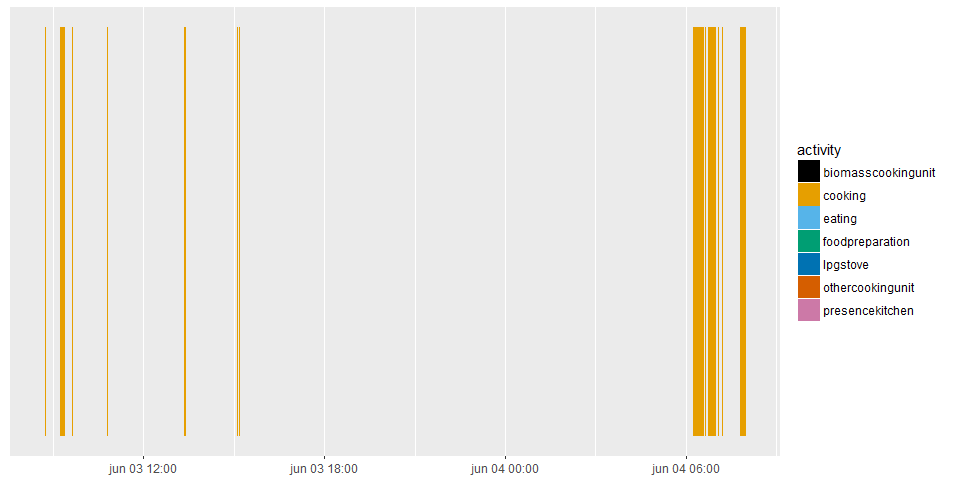
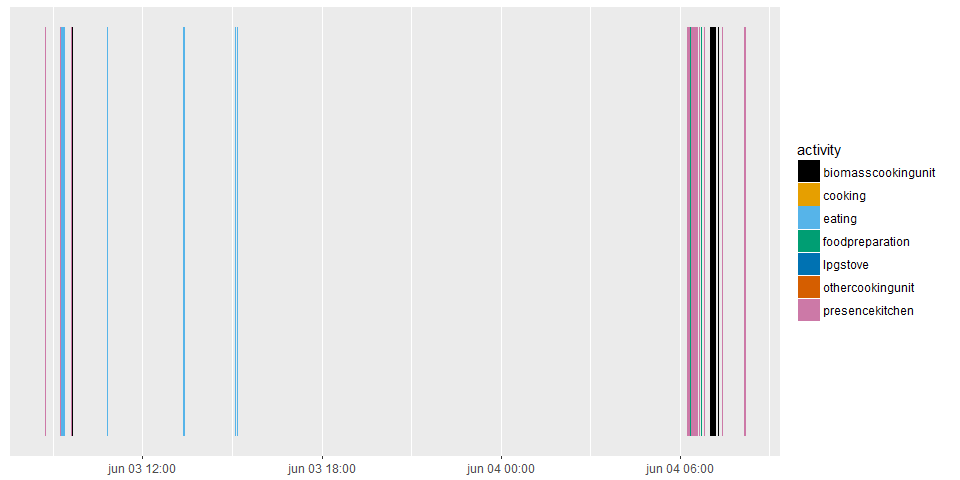
updates README

diff --git a/README.md b/README.md
@@ -149,28 +149,28 @@ eventTable <- toEventLevel(wearableCamImagesObject=dummyWearableCamImages)
 kable(head(eventTable))
 ```
 
-|  eventIndex| startTime           | endTime             | eventCode |  noOfPictures| activity           | group |  startPicture|  endPicture|
-|-----------:|:--------------------|:--------------------|:----------|-------------:|:-------------------|:------|-------------:|-----------:|
-|           1| 2015-06-03 09:37:53 | 2015-06-03 09:37:53 | 01a       |             1| biomasscookingunit | 1     |            83|          83|
-|           2| 2015-06-04 06:16:00 | 2015-06-04 06:16:00 | 01a       |             1| biomasscookingunit | 1     |           806|         806|
-|           3| 2015-06-04 06:33:35 | 2015-06-04 06:34:16 | 01a       |             2| biomasscookingunit | 1     |           841|         842|
-|           4| 2015-06-04 06:44:42 | 2015-06-04 06:45:25 | 01a       |             2| biomasscookingunit | 1     |           863|         864|
-|           5| 2015-06-04 06:47:14 | 2015-06-04 06:49:08 | 01a       |             3| biomasscookingunit | 1     |           866|         868|
-|           6| 2015-06-04 06:49:08 | 2015-06-04 06:55:56 | 01a       |             6| biomasscookingunit | 1     |           870|         875|
+| eventCode | startTime           | endTime             |  noOfPictures|  startPicture|  endPicture| group | activity |
+|:----------|:--------------------|:--------------------|-------------:|-------------:|-----------:|:------|:---------|
+| 01.       | 2015-06-03 08:45:09 | 2015-06-03 08:45:09 |             1|             8|           8| 99    | cooking  |
+| 01.       | 2015-06-03 09:13:34 | 2015-06-03 09:13:34 |             1|            51|          51| 99    | cooking  |
+| 01.       | 2015-06-03 09:15:24 | 2015-06-03 09:15:24 |             1|            54|          54| 99    | cooking  |
+| 01.       | 2015-06-03 09:16:46 | 2015-06-03 09:22:23 |             8|            56|          63| 99    | cooking  |
+| 01.       | 2015-06-03 09:37:20 | 2015-06-03 09:37:53 |             2|            82|          83| 99    | cooking  |
+| 01.       | 2015-06-03 10:48:40 | 2015-06-03 10:48:40 |             1|           181|         181| 99    | cooking  |
 
 ``` r
 eventTable2 <- toEventLevel(wearableCamImagesObject=dummyWearableCamImages, minDuration = 2)
 kable(head(eventTable2))
 ```
 
-|  eventIndex| startTime           | endTime             | eventCode |  noOfPictures| activity           | group |  startPicture|  endPicture|
-|-----------:|:--------------------|:--------------------|:----------|-------------:|:-------------------|:------|-------------:|-----------:|
-|           3| 2015-06-04 06:33:35 | 2015-06-04 06:34:16 | 01a       |             2| biomasscookingunit | 1     |           841|         842|
-|           4| 2015-06-04 06:44:42 | 2015-06-04 06:45:25 | 01a       |             2| biomasscookingunit | 1     |           863|         864|
-|           5| 2015-06-04 06:47:14 | 2015-06-04 06:49:08 | 01a       |             3| biomasscookingunit | 1     |           866|         868|
-|           6| 2015-06-04 06:49:08 | 2015-06-04 06:55:56 | 01a       |             6| biomasscookingunit | 1     |           870|         875|
-|          10| 2015-06-04 06:23:00 | 2015-06-04 06:26:13 | 01b       |             4| lpgstove           | 1     |           818|         821|
-|          11| 2015-06-04 06:27:24 | 2015-06-04 06:29:03 | 01b       |             5| lpgstove           | 1     |           824|         828|
+| eventCode | startTime           | endTime             |  noOfPictures|  startPicture|  endPicture| group | activity |
+|:----------|:--------------------|:--------------------|-------------:|-------------:|-----------:|:------|:---------|
+| 01.       | 2015-06-03 09:16:46 | 2015-06-03 09:22:23 |             8|            56|          63| 99    | cooking  |
+| 01.       | 2015-06-03 09:37:20 | 2015-06-03 09:37:53 |             2|            82|          83| 99    | cooking  |
+| 01.       | 2015-06-03 13:21:36 | 2015-06-03 13:22:43 |             3|           310|         312| 99    | cooking  |
+| 01.       | 2015-06-03 15:06:04 | 2015-06-03 15:06:47 |             2|           450|         451| 99    | cooking  |
+| 01.       | 2015-06-04 06:13:30 | 2015-06-04 06:16:37 |             5|           802|         806| 99    | cooking  |
+| 01.       | 2015-06-04 06:21:13 | 2015-06-04 06:35:26 |            19|           812|         830| 99    | cooking  |
 
 Plotting a table of events
 ==========================
